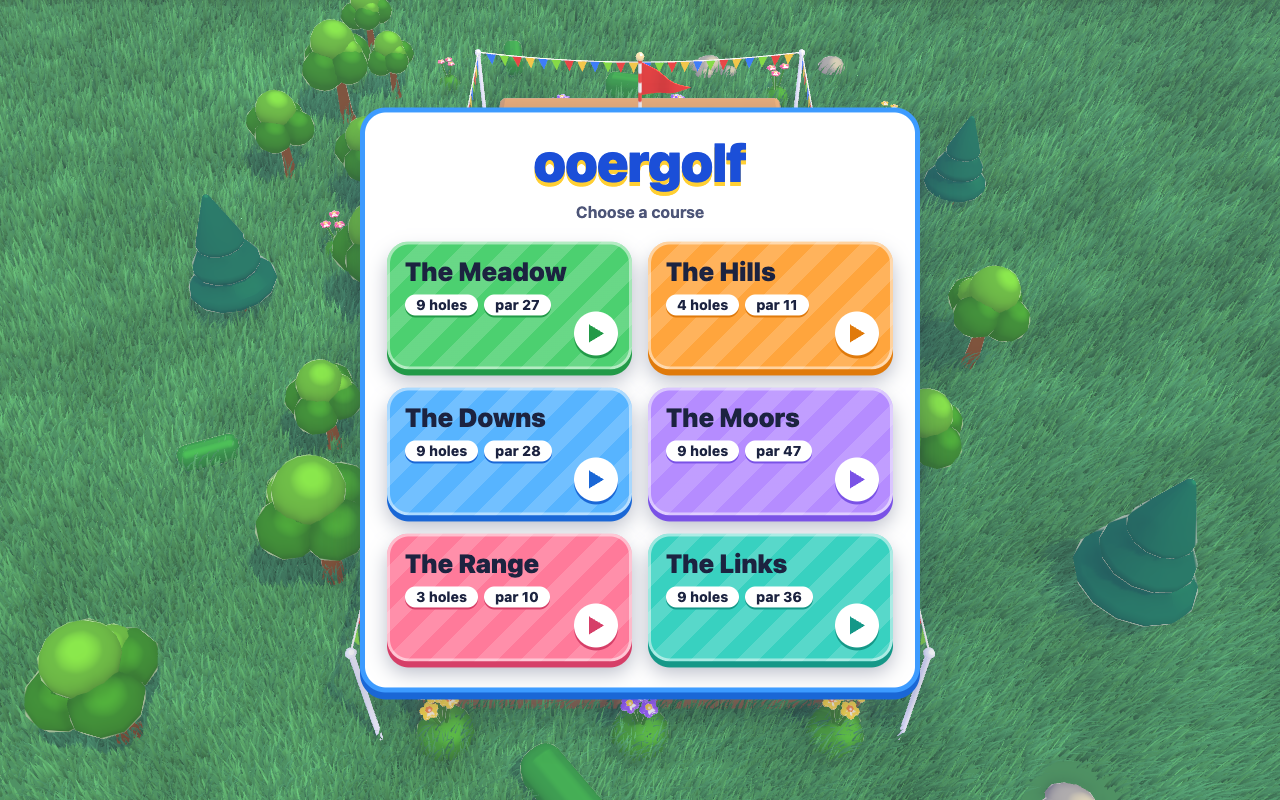
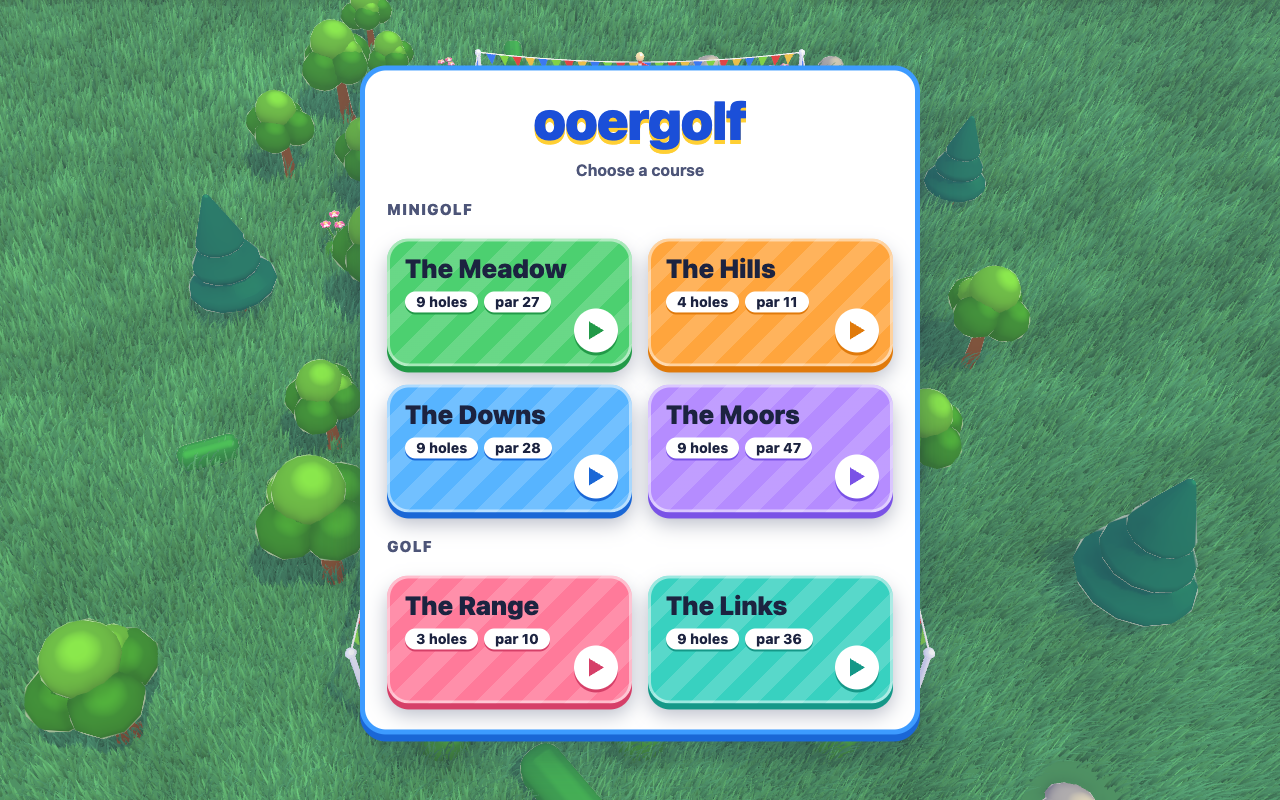
The start screen groups the courses under two headings, Minigolf and Golf
The six course cards are no longer one flat grid: the four minigolf courses (The Meadow, The Hills, The Downs, The Moors) sit under a Minigolf heading and the two of golf (The Range, The Links) under a Golf heading. The page passes each course's golf flag through to the hud, which until now dropped it; the card colours cycle by card as before (the selectors count card elements of their type, so a heading between them does not shift the cycle, and a test holds that the six cards have six different faces); the headings are compact on a phone, where all six still fit a 400 by 860 screen without scrolling, as does the desktop. The start screen and phone start pictures are rewritten; nothing else moves.

Stage 1 of the courses plan (~/.claude/plans/ooergolf-courses.md).

Changed region(s): [[0.2812, 0.0625, 0.7188, 0.9375]]

diff --git a/src/hud.ts b/src/hud.ts
@@ -485,27 +485,39 @@ export class Hud {
 
   /**
    * The start screen, over the course, with a card for each course: its name,
-   * how many holes and its par. Everything else over the course is put away
-   * while it is up; a click on a card goes back through `choose`.
+   * how many holes and its par, under a heading for each kind of game (Minigolf,
+   * then Golf), since the two are played so differently and a player chooses
+   * between them first. A kind with no course has no heading. Everything else over
+   * the course is put away while it is up; a click on a card goes back through `choose`.
    */
-  showStart(courses: readonly { name: string; holes: number; par: number }[]) {
-    this.courseList.replaceChildren(
-      ...courses.map((c) => {
-        const card = document.createElement('button');
-        card.className = 'course';
-        const name = document.createElement('b');
-        name.textContent = c.name;
-        const about = document.createElement('small');
-        for (const text of [`${c.holes} holes`, `par ${c.par}`]) {
-          const pill = document.createElement('span');
-          pill.textContent = text;
-          about.append(pill);
-        }
-        card.append(name, about);
-        card.addEventListener('click', () => this.handlers.choose(c.name));
-        return card;
-      }),
-    );
+  showStart(courses: readonly { name: string; holes: number; par: number; golf?: boolean }[]) {
+    const cardOf = (c: { name: string; holes: number; par: number }) => {
+      const card = document.createElement('button');
+      card.className = 'course';
+      const name = document.createElement('b');
+      name.textContent = c.name;
+      const about = document.createElement('small');
+      for (const text of [`${c.holes} holes`, `par ${c.par}`]) {
+        const pill = document.createElement('span');
+        pill.textContent = text;
+        about.append(pill);
+      }
+      card.append(name, about);
+      card.addEventListener('click', () => this.handlers.choose(c.name));
+      return card;
+    };
+    const parts: HTMLElement[] = [];
+    for (const [title, golf] of [
+      ['Minigolf', false],
+      ['Golf', true],
+    ] as const) {
+      const of = courses.filter((c) => !!c.golf === golf);
+      if (!of.length) continue;
+      const heading = document.createElement('h2');
+      heading.textContent = title;
+      parts.push(heading, ...of.map(cardOf));
+    }
+    this.courseList.replaceChildren(...parts);
     for (const el of [
       this.panel,
       this.purse,

diff --git a/index.html b/index.html
@@ -731,6 +731,21 @@
     grid-template-columns: repeat(auto-fit, minmax(210px, 1fr));
     gap: 18px 16px;
   }
+  /* a heading for each kind of game runs across the grid; the cards count among the buttons only (nth-of-type), so
+     the colours go round the courses as they did before there were headings */
+  #courses h2 {
+    grid-column: 1 / -1;
+    margin: 0;
+    font-size: 15px;
+    font-weight: 900;
+    letter-spacing: 0.08em;
+    text-transform: uppercase;
+    text-align: left;
+    color: var(--ink-soft);
+  }
+  #courses h2:not(:first-child) {
+    margin-top: 6px;
+  }
   /* a card for each course, a colour each, striped as a mown green is */
   #courses .course {
     --face: var(--leaf);
@@ -750,23 +765,23 @@
       0 6px 0 var(--deep),
       0 12px 20px var(--shade);
   }
-  #courses .course:nth-child(6n + 2) {
+  #courses .course:nth-of-type(6n + 2) {
     --face: var(--orange);
     --deep: var(--orange-deep);
   }
-  #courses .course:nth-child(6n + 3) {
+  #courses .course:nth-of-type(6n + 3) {
     --face: var(--sky-face);
     --deep: var(--sky-deep);
   }
-  #courses .course:nth-child(6n + 4) {
+  #courses .course:nth-of-type(6n + 4) {
     --face: var(--grape);
     --deep: var(--grape-deep);
   }
-  #courses .course:nth-child(6n + 5) {
+  #courses .course:nth-of-type(6n + 5) {
     --face: var(--rose);
     --deep: var(--rose-deep);
   }
-  #courses .course:nth-child(6n + 6) {
+  #courses .course:nth-of-type(6n + 6) {
     --face: var(--teal);
     --deep: var(--teal-deep);
   }
@@ -833,6 +848,13 @@
     /* six cards fit a tall phone's screen at this height, and a short one scrolls */
     #courses {
       gap: 12px 16px;
+    }
+    #courses h2 {
+      font-size: 13px;
+      margin-top: -4px;
+    }
+    #courses h2:not(:first-child) {
+      margin-top: 0;
     }
     #courses .course {
       min-height: 88px;

diff --git a/smoke/hud.spec.ts b/smoke/hud.spec.ts
@@ -35,6 +35,24 @@ for (const [where, device] of [
   test.describe(where, () => {
     test.use(device);
 
+    test('the start screen holds its four minigolf and two golf courses without scrolling, the colours going round the cards', async ({
+      page,
+    }) => {
+      const problems = watch(page);
+      await start(page, { seed: 11, paused: true, screen: true });
+      const r = await page.evaluate(() => {
+        const panel = document.querySelector<HTMLElement>('#start')!;
+        const faces = Array.from(document.querySelectorAll<HTMLElement>('#courses .course')).map(
+          (c) => getComputedStyle(c).getPropertyValue('--face').trim() || getComputedStyle(c).backgroundColor,
+        );
+        return { fits: panel.scrollHeight <= panel.clientHeight, faces };
+      });
+      expect(r.fits, 'no scrolling in the start screen').toBe(true);
+      // six cards, six colours: a heading among them must not shift the cycle
+      expect(new Set(r.faces).size, 'each card its own colour').toBe(6);
+      expect(problems).toEqual([]);
+    });
+
     test('every text is clear against its panel and every button is a thumb high, on every screen', async ({
       page,
     }) => {

diff --git a/smoke/game.spec.ts b/smoke/game.spec.ts
@@ -180,6 +180,24 @@ test.describe('the start screen', () => {
     await start(page, { seed: 1, paused: true, screen: true });
     await expect(page.locator('#start')).toBeVisible();
     await expect(page.locator('#start .course')).toHaveCount(6);
+    // the courses sit under two headings, minigolf then golf, the Meadow first of all
+    await expect(page.locator('#start h2')).toHaveText(['Minigolf', 'Golf']);
+    expect(
+      await page.evaluate(() =>
+        Array.from(document.querySelectorAll('#courses > *')).map(
+          (e) => `${e.tagName}:${e.textContent.split(/\d/)[0]}`,
+        ),
+      ),
+    ).toEqual([
+      'H2:Minigolf',
+      'BUTTON:The Meadow',
+      'BUTTON:The Hills',
+      'BUTTON:The Downs',
+      'BUTTON:The Moors',
+      'H2:Golf',
+      'BUTTON:The Range',
+      'BUTTON:The Links',
+    ]);
     await expect(page.locator('#start .course').nth(2)).toContainText('The Downs');
     await expect(page.locator('#start .course').nth(2)).toContainText('9 holes');
     await expect(page.locator('#start .course').nth(3)).toContainText('The Moors');

diff --git a/src/main.ts b/src/main.ts
@@ -102,7 +102,7 @@ async function main() {
   let courseName = COURSES[0].name;
   let choosing = true;
   // what the start screen says of each course, which is known without making a course that is made when it is chosen
-  const summaries = COURSES.map((c) => ({ name: c.name, ...c.summary }));
+  const summaries = COURSES.map((c) => ({ name: c.name, ...c.summary, golf: c.golf }));
   const hud = new Hud(
     {
       again: () => game?.newRound(),
